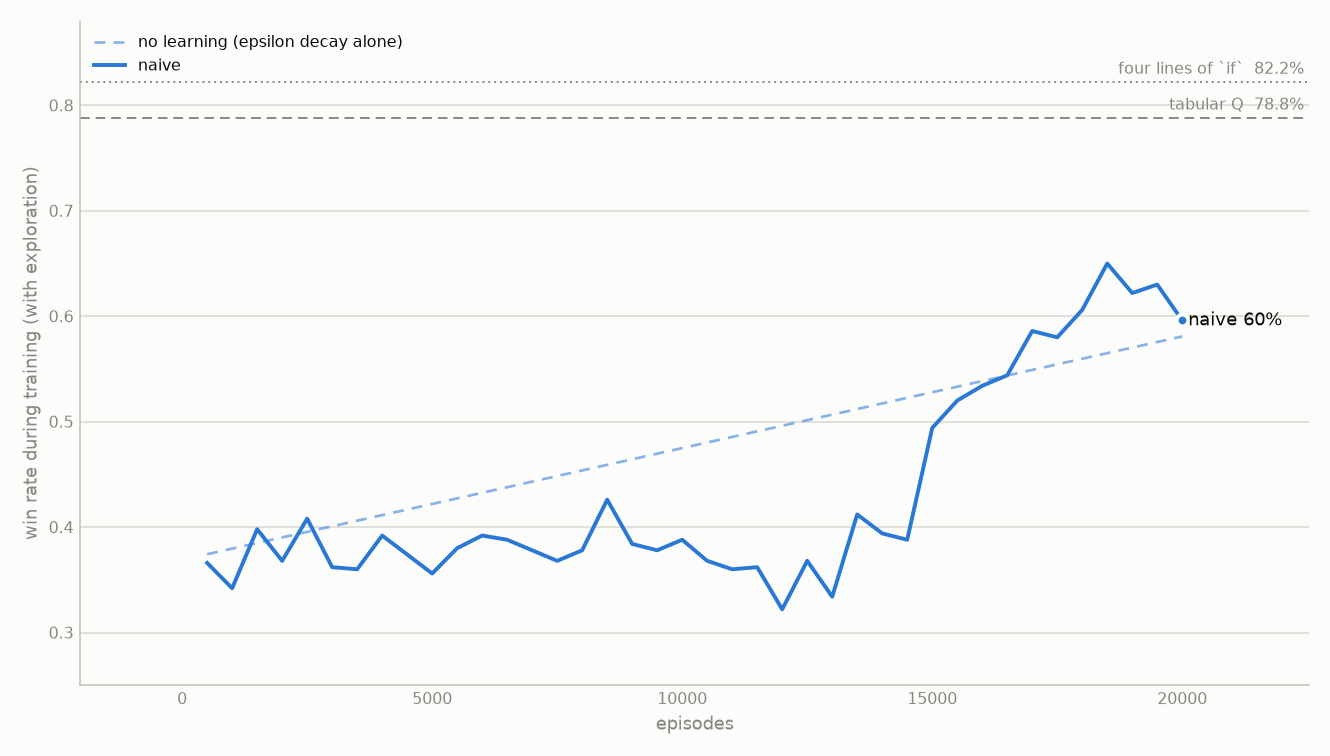
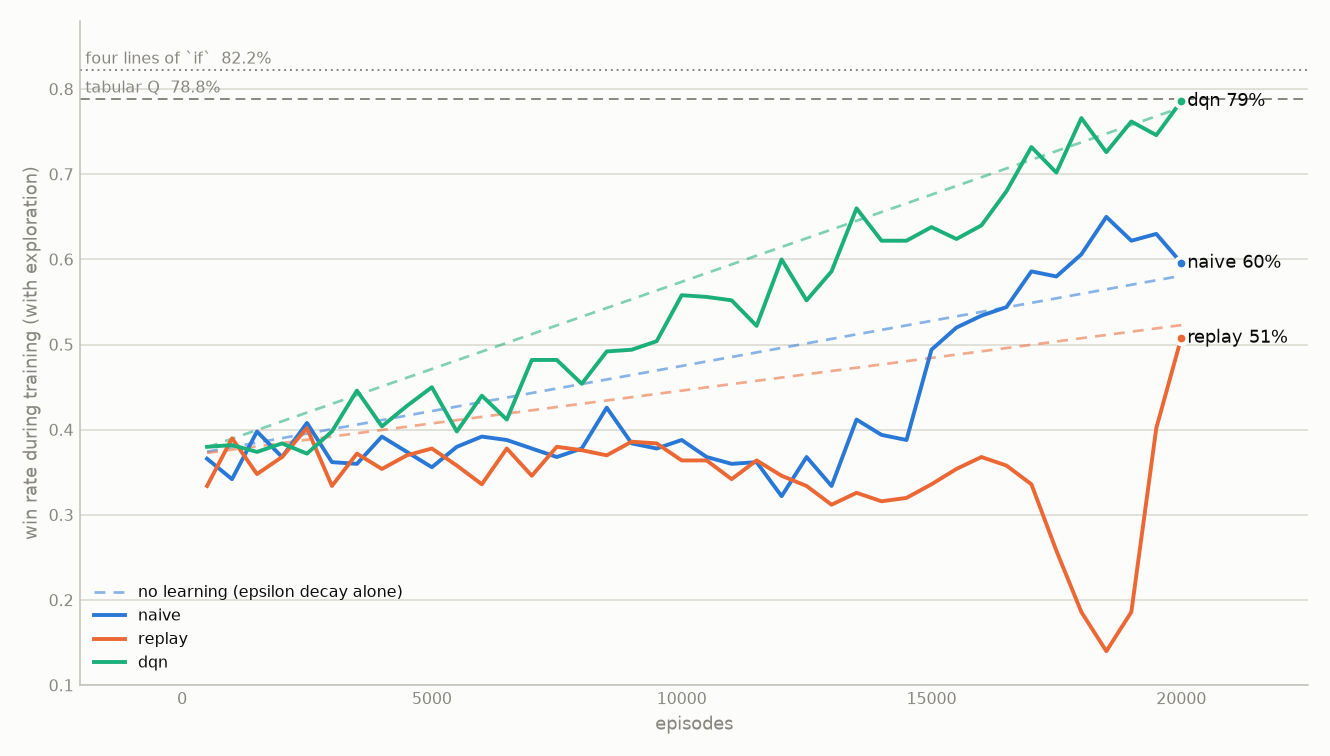
plot: data-driven y limits and move the legend out of the labels
A fixed 0.25 floor clipped the most interesting part of the run - replay
collapsed to 0.14 near the end and the chart simply hid it. The benchmark
captions also collided with the direct label of whichever series finished near
a benchmark, which here was dqn 79% against tabular Q 78.8% - the exact
comparison the reader came for.

diff --git a/rl/stage2_dqn/dqn_exp1.py b/rl/stage2_dqn/dqn_exp1.py
@@ -456,8 +456,10 @@ def plot_all() -> None:
     for y, text, style in ((0.788, "tabular Q  78.8%", (0, (5, 3))),
                            (0.822, "four lines of `if`  82.2%", (0, (1, 2)))):
         ax.axhline(y, ls=style, lw=1, color=MUTED, zorder=1)
-        # Right-aligned: the legend lives top-left and the two collided there.
-        ax.text(0.996, y + 0.008, text, fontsize=8, color=MUTED, ha="right",
+        # Top-left, with the legend moved to the bottom: right-aligned captions
+        # collided with the direct label of whichever series finished near a
+        # benchmark - which is exactly the comparison the reader came for.
+        ax.text(0.004, y + 0.008, text, fontsize=8, color=MUTED, ha="left",
                 transform=ax.get_yaxis_transform(), zorder=1)
 
     labelled_reference = False
@@ -492,13 +494,16 @@ def plot_all() -> None:
         ax.spines[side].set_visible(False)
     for side in ("left", "bottom"):
         ax.spines[side].set_color(AXIS)
-    ax.set_ylim(0.25, 0.88)
+    # Data-driven, because a fixed floor once clipped the most interesting part
+    # of the run: `replay` collapsed to 0.14 near the end and the chart hid it.
+    low = min(min(d["curve"]) for _, _, d in runs)
+    ax.set_ylim(min(0.25, low - 0.04), 0.88)
     ax.margins(x=0.13)
 
     handles, labels = ax.get_legend_handles_labels()
     if len(handles) > 1:
         leg = ax.legend(handles, labels, fontsize=8, frameon=False,
-                        loc="upper left", labelcolor=INK)
+                        loc="lower left", labelcolor=INK)
         leg.set_zorder(5)
 
     fig.tight_layout()
